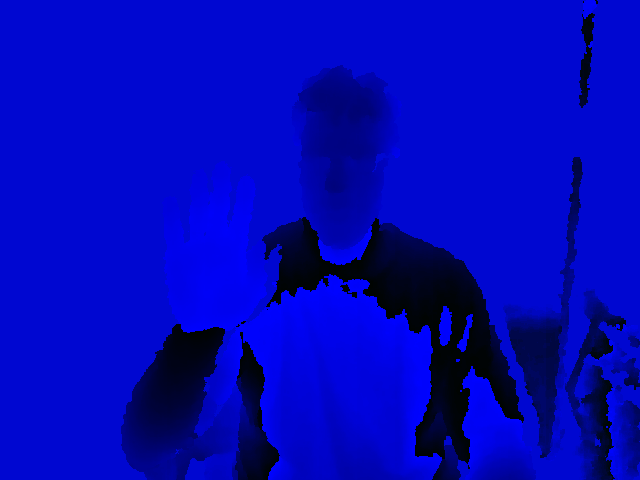
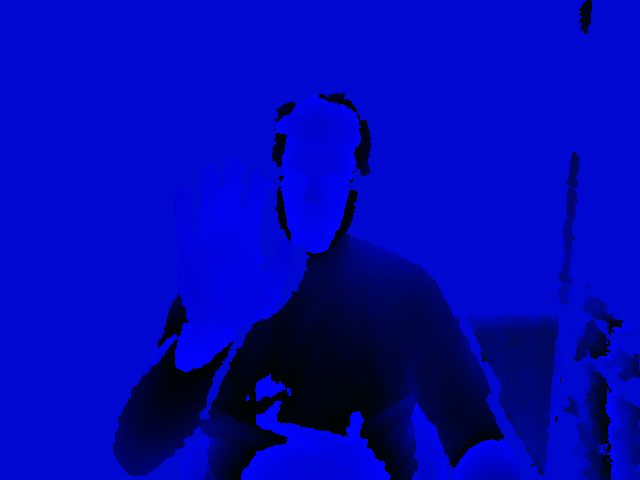
.

diff --git a/utils.py b/utils.py
@@ -1,10 +1,11 @@
 import numpy as np
-import scipy.io as sio
+from scipy.io import loadmat, savemat
 from mpl_toolkits.mplot3d import Axes3D
 import matplotlib
 from matplotlib import pyplot as plt
 from matplotlib.animation import FuncAnimation
 from matplotlib import animation, rc
+
 
 def rotmat2expmap(R):
     # R to omega
@@ -202,3 +203,70 @@ class plot_human(object):
     def plot(self):
         ani = FuncAnimation(self.fig, self.update, frames=self.nframes, interval=40)
         plt.show()
+
+
+def plot_3d_points(data):
+    # data [num_points, 3]
+    data[:, 1] = - data[:, 1]
+    x_min, x_max = np.min(data[:, 0]), np.max(data[:, 0])
+    y_min, y_max = np.min(data[:, 1]), np.max(data[:, 1])
+    z_min, z_max = np.min(data[:, 2]), np.max(data[:, 2])
+    plt.figure()
+    ax = plt.axes(xlim=(x_min, x_max), ylim=(z_min, z_max), zlim=(y_min, y_max), projection='3d')
+    ax.scatter(data[:, 0], data[:, 2], data[:, 1], color='b', marker='.', s=1)
+    ax.set_xlabel('x')
+    ax.set_ylabel('z')
+    ax.set_zlabel('y')
+    ax.grid()
+    plt.show()
+
+
+def plot_depth_img(depth_img, camera_cfg, max_depth):
+    # plot 2d gray image
+    _depth_img = depth_img / np.max(depth_img)
+    plt.figure()
+    plt.imshow(_depth_img, cmap="gray")
+    plt.axis('off')
+    plt.show()
+
+    # plot 3d points
+    uvd = depth2uvd(depth_img)
+    xyz = uvd2xyz(uvd, camera_cfg)
+    points = np.reshape(xyz, [-1, 3])
+    body_points = points[(points[:, 2] < max_depth), :]
+    plot_3d_points(body_points)
+
+
+def depth2uvd(depth):
+    x, y = np.meshgrid(np.linspace(0, depth.shape[1] - 1, depth.shape[1]),
+                       np.linspace(0, depth.shape[0] - 1, depth.shape[0]))
+    uvd = np.stack([x.astype(np.uint16), y.astype(np.uint16), depth], axis=2)
+    return uvd
+
+
+def uvd2xyz(uvd, camera_cfg):
+    # fx, fy, cx, cy, w, h
+    # 0,  1,  2,  3,  4, 5
+    # z = d
+    # x = (u - cx) * d / fx
+    # y = (v - cy) * d / fy
+    w, h = uvd.shape[0], uvd.shape[1]
+    _bpro = lambda pt2, cfg : [(pt2[0] - cfg[2]) * pt2[2] / cfg[0], (pt2[1] - cfg[3]) * pt2[2] / cfg[1], pt2[2]]
+    uvd = np.reshape(uvd, [-1, 3])
+    xyz = [_bpro(pt2, camera_cfg) for pt2 in uvd]
+    return np.reshape(np.array(xyz), [w, h, 3])
+
+
+def xyz2uvd(xyz, camera_cfg):
+    # fx, fy, cx, cy, w, h
+    # 0,  1,  2,  3,  4, 5
+    # d = z
+    # u = fx * x / z + cx
+    # v = fy * y / z + cy
+    w, h = xyz.shape[0], xyz.shape[1]
+    _pro = lambda pt3, cfg: [pt3[0] * cfg[0] / pt3[2] + cfg[2], pt3[1] * cfg[1] / pt3[2] + cfg[3], pt3[2]]
+    xyz = xyz.reshape((-1, 3))
+    # perspective projection function
+    uvd = [_pro(pt3, camera_cfg) for pt3 in xyz]
+    return np.reshape(np.array(uvd), [w, h, 3])
+

diff --git a/data_preprocessing/nyu_dataset.py b/data_preprocessing/nyu_dataset.py
@@ -3,6 +3,7 @@ import pickle, os, glob, time, cv2
 import numpy as np
 from collections import namedtuple
 from scipy.io import loadmat
+import utils
 
 
 class NYUDataset(BaseDataset):
@@ -11,7 +12,7 @@ class NYUDataset(BaseDataset):
 
         # bbx denotes bounding box
         self._annotations = []
-        self.camera_cfg(fx=588.235, fy=587.084, cx=320, cy=240, w=640, h=480)
+        self.camera_cfg = self.Camera(fx=588.235, fy=587.084, cx=320, cy=240, w=640, h=480)
         self.num_per_file = 730
         self.max_depth = 1500.0
         self.root_dir = root_dir
@@ -46,10 +47,10 @@ class NYUDataset(BaseDataset):
 
         for c_j, c_file in zip(joints, filenames):
             for j, n in zip(c_j, c_file):
-                j = j.reshape((-1, 3))
-                # TODO: inverse Y axis?
-                j[:, 1] *= -1.0
-                j = j.reshape((-1,))
+                # j = j.reshape((-1, 3))
+                # # TODO: inverse Y axis?
+                # j[:, 1] *= -1.0
+                # j = j.reshape((-1,))
                 self._annotations.append(self.annotation(n, j))
         print('[data.NyuDataset] annotation has been loaded with %d samples, %fs' %
               (len(self._annotations), time.time() - time_begin))
@@ -58,6 +59,10 @@ class NYUDataset(BaseDataset):
         # The top 8 bits of depth are packed into green and the lower 8 bits into blue.
         g, b = img_data[:, :, 1].astype(np.uint16), img_data[:, :, 2].astype(np.uint16)
         depth_img = (g * 256 + b).astype(np.float32)
+
+        # print(self.camera_cfg)
+        utils.plot_depth_img(depth_img, self.camera_cfg, self.max_depth)
+
         return depth_img
 
     def preprocessing(self, example):

diff --git a/data_preprocessing/dataset_base.py b/data_preprocessing/dataset_base.py
@@ -14,7 +14,7 @@ class BaseDataset(object):
         """
         self.subset = subset
         # fx, fy: focal length, cx, cy: center of the camera, w, h: width and height of images
-        self.camera_cfg = namedtuple('CameraConfig', 'fx, fy, cx, cy, w, h')
+        self.Camera = namedtuple('Camera', ['fx', 'fy', 'cx', 'cy', 'w', 'h'])
         # filename is the filename of an image, pose is its corresponding annotations
         self.annotation = namedtuple('annotation', 'filename, pose')
 
